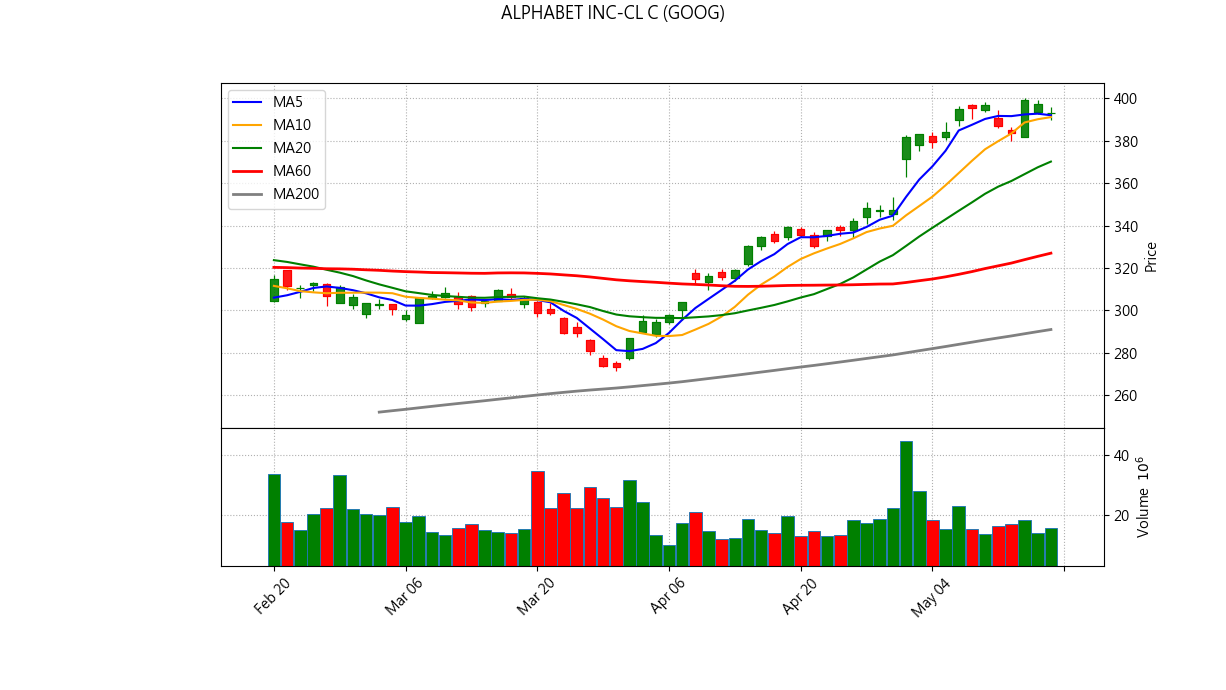
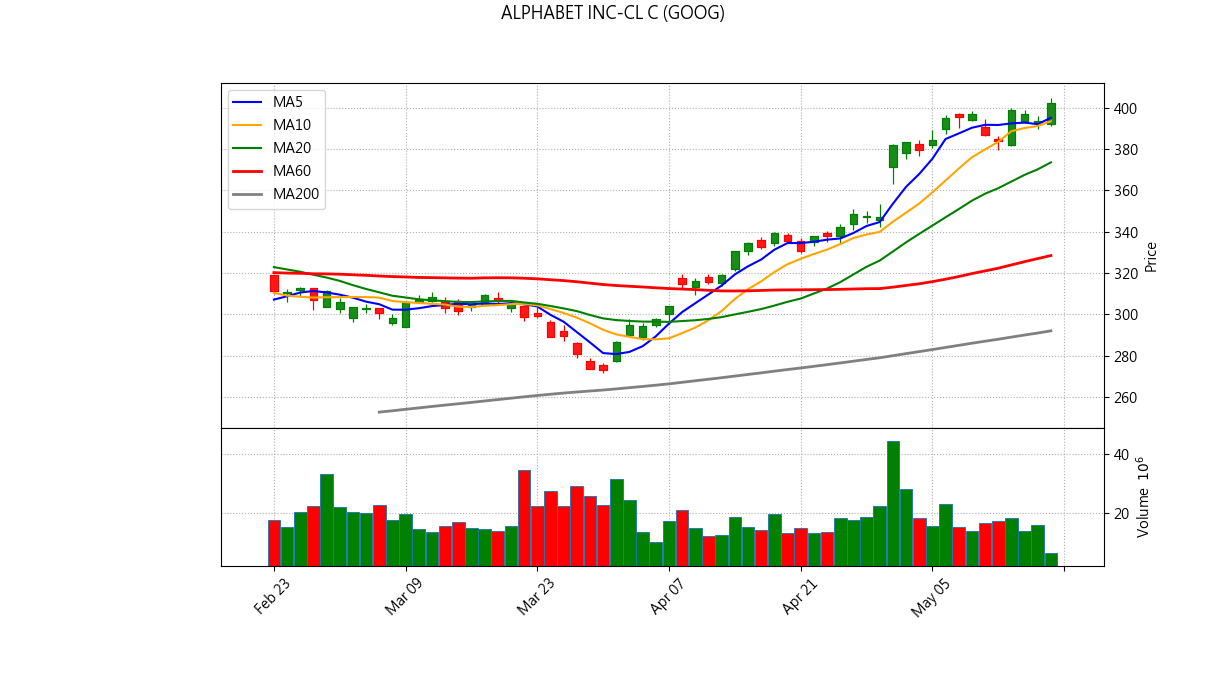
Update reports and charts

diff --git a/docs/ExitDiagnosisReportNYSE.html b/docs/ExitDiagnosisReportNYSE.html
@@ -38,7 +38,7 @@
         </div>
         <div class="main-content">
             <h1>📊 NYSE/US Stock Inventory AI Diagnosis</h1>
-            <p style="text-align:center; color:#555;">Generated at: 2026-05-18 21:04:19</p>
+            <p style="text-align:center; color:#555;">Generated at: 2026-05-18 22:28:42</p>
     
         <div class="card" id="stock-AMD">
             <div class="header">
@@ -442,7 +442,7 @@ FSLR 目前的技術面、基本面和消息面均呈現健康且強勁的態勢
         <div class="card" id="stock-GOOG">
             <div class="header">
                 <div class="stock-title">ALPHABET INC-CL C (GOOG)</div>
-                <div class="price" style="color: #333;">Current Price: $393.32</div>
+                <div class="price" style="color: #333;">Current Price: $402.27</div>
             </div>
             <div class="content-wrapper" style="flex-direction: column;">
                 <div class="top-section" style="display: flex; gap: 20px; flex-wrap: wrap; width: 100%; margin-bottom: 20px;">
@@ -453,8 +453,8 @@ FSLR 目前的技術面、基本面和消息面均呈現健康且強勁的態勢
                 <div style="display: grid; grid-template-columns: 1fr 1fr; gap: 10px; font-size: 15px;">
                     <div>Avg Cost: <b>$329.63</b></div>
                     <div>Quantity: <b>16</b></div>
-                    <div>Unrealized P/L: <b style="color: #2ecc71;">$1,018.98</b></div>
-                    <div>Return Rate: <b style="color: #2ecc71;">19.32%</b></div>
+                    <div>Unrealized P/L: <b style="color: #2ecc71;">$1,162.18</b></div>
+                    <div>Return Rate: <b style="color: #2ecc71;">22.04%</b></div>
                 </div>
             </div>
             
@@ -467,7 +467,65 @@ FSLR 目前的技術面、基本面和消息面均呈現健康且強勁的態勢
                         <img class="chart-img" src="charts/GOOG_nyse_chart.png">
                     </div>
                 </div>
-                </div></div>
+                
+                <div class="ai-box">
+                    <h3>✨ AI Comprehensive Diagnosis</h3>
+                    <div id="ai-content-GOOG"></div>
+                    <script>
+                        document.getElementById('ai-content-GOOG').innerHTML = marked.parse(`對 ALPHABET INC-CL C (GOOG) 的綜合診斷與操作建議如下：
+
+### **綜合診斷**
+
+#### **技術面分析**
+
+*   **K線型態與均線排列：** ALPHABET INC-CL C (GOOG) 的股價 (\$402.27) 目前顯著高於所有關鍵均線：5日均線 (\$395.12)、10日均線 (\$393.41)、20日均線 (\$373.53)、季線 (60日線, \$328.46) 和年線 (200日線, \$292.06)。所有短期、中期及長期均線皆呈現多頭排列，且均線斜率皆向上，特別是季線向上延伸，顯示出強勁的上升趨勢。圖表顯示股價在近期創下新高，整體走勢非常強勁。
+*   **量價結構：** 最新交易日收盤價為長綠K棒，顯示買盤力道強勁。雖然當日成交量 (6,160,782.0) 低於20日均量 (18,154,889.10)，但並未出現「爆量長黑K棒」或「下跌量增」等教學筆記中所提及的轉弱或出貨型態。目前股價上漲並未伴隨明顯的放量，這可能表示短期內需觀察量能是否能有效跟上，但並非立即的出場訊號。
+*   **壓力與支撐：** 目前股價已突破多數短期壓力，5日均線與10日均線可視為近期強勁的動態支撐，若股價能持續站穩其上，表示短期多頭格局不變。
+
+#### **基本面分析**
+
+*   **營運表現強勁：** Alphabet 在2026年第一季度財報表現亮眼，總營收年增22%達1099億美元，顯著超出市場預期。淨利潤與每股盈餘分別大增81%和82%，表現優異。
+*   **AI驅動成長：** 公司在AI領域的投資正全面帶動業務增長。Google Cloud 營收飆升63%至200億美元，並積累了超過4600億美元的訂單積壓，顯示其在企業AI解決方案和基礎設施方面的強大需求與未來成長潛力。搜尋業務也因AI體驗的導入而實現19%的增長。
+*   **產業趨勢領先：** Alphabet 積極發展AI技術，特別是Gemini模型，並將在即將到來的Google I/O開發者大會上展示更多AI創新和產品整合，這有助於鞏固其在AI領域的領導地位和市場關注度。
+*   **估值與獲利：** 公司的本益比 (PE: 30.70916) 和股價淨值比 (PB: 10.180949) 對於一家高速增長的科技巨頭而言尚屬合理，儘管市場評論指出近期股價上漲後估值已變得「更為豐厚」。
+
+#### **籌碼面分析**
+
+*   **機構法人動向：** 儘管有新聞提及部分機構投資者進行了部位調整（減持），且近三個月有內部人賣出股票，但整體而言，機構法人（如 Vanguard Group Inc 和 BlackRock, Inc. 等）對 GOOG 的持股總量在最新一季仍呈現淨增長。這表明大型資金對公司前景仍持樂觀態度，並未出現籌碼顯著流向散戶或大戶轉空的警訊。
+
+#### **新聞資訊**
+
+*   **正面消息主導：** 近期主要新聞圍繞著公司強勁的Q1財報、Google Cloud業務的爆發性成長、以及在AI領域的關鍵進展。這些消息為股價提供了堅實的支撐和上漲動能。
+*   **資本支出疑慮：** 雖然公司提高了2026年AI資本支出預期至1800億至1900億美元，引發了市場對未來自由現金流的短期擔憂，但這也被視為在AI競賽中建立護城河和滿足龐大市場需求的必要投資。
+
+### **出場條件教學筆記規則檢視**
+
+*   **停損條件：**
+    *   **均線防守法：** 股價目前高於所有關鍵均線，未觸發短線、波段及趨勢停損點。
+    *   **量價結構轉弱：** 未觀察到爆量長黑破底或下跌量增的型態。
+    *   **籌碼面惡化：** 機構法人持股趨勢未明顯轉空，且未有籌碼流向散戶的明確證據。
+    *   **突發利空破線：** 未出現非預期性重大利空消息導致股價跌破季線或盤整區間下緣。
+*   **停利條件：**
+    *   **波段均線跌破：** 股價仍維持在10日均線之上，未觸發停利訊號。
+    *   **高檔爆量長黑：** 未出現此主力出貨訊號。
+    *   **不漲的確認：** 股價仍在創高，且均線未彎頭向下，未觸發停利訊號。
+
+### **最終操作建議**
+
+根據以上綜合診斷並嚴格參照「出場條件教學筆記」的規則，對持有 ALPHABET INC-CL C (GOOG) 的投資者建議為：
+
+**續抱**
+
+**原因闡述：**
+
+1.  **多頭趨勢確立，未觸發任何出場訊號：** ALPHABET INC-CL C (GOOG) 的技術線型呈現非常健康的多頭排列，股價穩居所有關鍵均線之上，且均線皆向上。根據教學筆記的停損與停利原則，目前未出現任何需要減碼或出場的技術性訊號（如跌破5日/10日均線、爆量長黑等）。
+2.  **基本面強勁成長，AI業務前景廣闊：** 公司最新財報表現卓越，尤其是AI驅動的Google Cloud業務成長動能強勁，且有龐大訂單積壓，為未來營收提供了堅實基礎。AI作為核心成長引擎，其戰略佈局與即將發布的產品更新，預期將持續推動公司業績增長。
+3.  **機構法人持續青睞：** 儘管有少部分內部人賣出與機構再平衡動作，但整體機構法人持股仍呈現增長趨勢，顯示主流資金對其後市仍具信心。
+
+**注意事項：** 儘管目前趨勢看好，投資者仍應密切關注公司在 Google I/O 大會後市場的反應，以及未來成交量是否能有效配合股價上漲。若未來股價跌破10日均線，則應考慮執行波段停利。若出現突發重大利空並跌破季線，則需立即執行絕對停損。`);
+                    </script>
+                </div>
+            </div></div>
         <div class="card" id="stock-MRVL">
             <div class="header">
                 <div class="stock-title">MARVELL TECHNOLOGY INC (MRVL)</div>